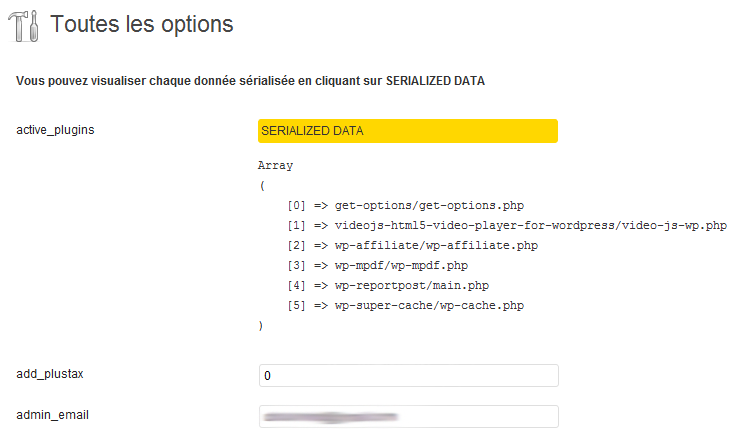
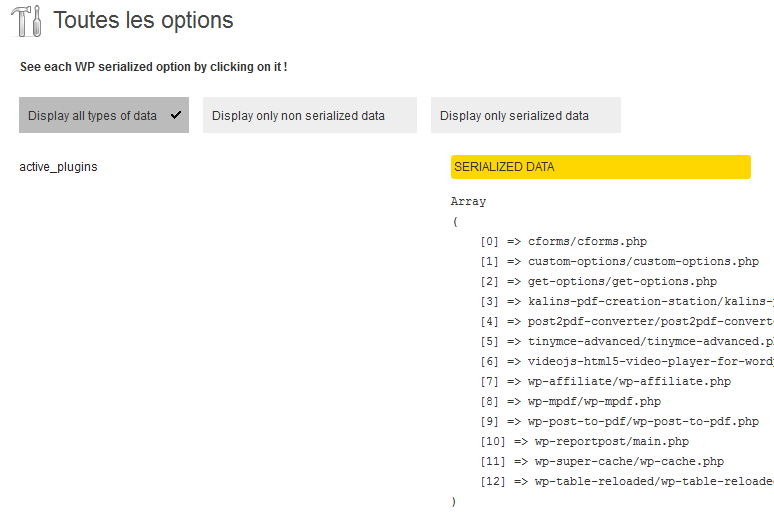
now you can choose the type of data to display
git-svn-id: https://plugins.svn.wordpress.org/get-options/trunk@545564 b8457f37-d9ea-0310-8a92-e5e31aec5664

diff --git a/inc/page-content.php b/inc/page-content.php
@@ -2,93 +2,158 @@
 <div class="wrap">
 <?php screen_icon(); ?>
 <h2><?php esc_html_e('All Settings'); ?></h2>
-<form name="form" action="options.php" method="post" id="all-options">
-<?php wp_nonce_field('options-options') ?>
-<input type="hidden" name="action" value="update" />
-<input type='hidden' name='option_page' value='options' />
 
-<div style="margin-top:20px;margin-bottom:12px; padding:10px;font-weight:bold;" class="info">
+
+<div style="margin-top:10px;padding:10px;font-weight:bold;" class="info">
 	<?php _e("See each WP serialized option by clicking on it !", 'get-options'); ?>
 </div>
 
+<form name="switch_display" id="switch_display" action="">
+	<div class="div_radio selected" id="div_radio_tout">
+		<label for="d0"><?php _e("Display all types of data", 'get-options'); ?></label>
+	</div>
+	<div class="div_radio" id="div_radio_not_serialized">
+		<label for="d1"><?php _e("Display only non serialized data", 'get-options'); ?></label>
+	</div>
+	<div class="div_radio" id="div_radio_serialized">
+		<label for="d2"><?php _e("Display only serialized data", 'get-options'); ?></label>
+	</div>
+</form>
 
-<table class="form-table">
 
-	<?php
-	global $wpdb;
-	$options = $wpdb->get_results( "SELECT * FROM $wpdb->options ORDER BY option_name" );
-	foreach ( (array) $options as $option ) :
-		$disabled = false;
-		$data_serialize = false;
-		if ( $option->option_name == '' )
-			continue;
-		if ( is_serialized( $option->option_value ) ) {
-			if ( is_serialized_string( $option->option_value ) ) {
-				// this is a serialized string, so we should display it
-				$value = maybe_unserialize( $option->option_value );
+	<script type="text/javascript">
+		jQuery(document).ready(function(){
+			jQuery('.show_data_serialized').click(function(){
+				jQuery(this).siblings('pre').slideToggle();
+			});
+			
+			jQuery('.div_radio').click(function(){
+				jQuery('.div_radio').removeClass('selected');
+				jQuery(this).addClass('selected');
+				
+				if (jQuery(this).attr('id') == 'div_radio_tout') {
+					// console.log(jQuery(this).attr('id'));
+					jQuery('.td_not_serialized').show();
+					jQuery('.td_serialized').show();
+				}
+				else if (jQuery(this).attr('id') == 'div_radio_not_serialized') {
+					// console.log(jQuery(this).attr('id'));
+					jQuery('.td_not_serialized').show();
+					jQuery('.td_serialized').hide();					
+				}
+				else if (jQuery(this).attr('id') == 'div_radio_serialized') {
+					// console.log(jQuery(this).attr('id'));
+					jQuery('.td_not_serialized').hide();
+					jQuery('.td_serialized').show();
+				} 
+			});
+		});
+	</script>
+	<style type="text/css">
+		.show_data_serialized {
+			cursor:pointer;
+			background:gold;
+			padding:2px 0;
+			width: 25em;
+			display:inline-block;
+			border-color: #DFDFDF;
+			-webkit-border-radius: 3px;
+			-moz-border-radius: 3px;
+			border-radius: 3px;
+		}
+		
+		/*=======================
+		 form de choix de données à voir
+		=======================*/
+		form#switch_display {
+			padding:12px 10px;
+			height:32px;
+		}
+		form#switch_display input {
+			margin:0 10px 0 3px;
+		}
+		form#switch_display .div_radio {
+			float:left;
+			margin-right:14px;
+			padding:9px 32px 9px 9px;
+			background-color:#eee;
+		}
+			form#switch_display .div_radio.selected {
+				background:url(<?php echo plugins_url('get-options/img/check.png'); ?>) no-repeat right;
+				background-color:#bbb;
+			}
+	</style>
+	
+<form name="form" action="options.php" method="post" id="all-options">
+	<?php wp_nonce_field('options-options') ?>
+	<input type="hidden" name="action" value="update" />
+	<input type='hidden' name='option_page' value='options' />
+
+
+	<table class="form-table">
+
+		<?php
+		global $wpdb;
+		$options = $wpdb->get_results( "SELECT * FROM $wpdb->options ORDER BY option_name" );
+		foreach ( (array) $options as $option ) :
+			$disabled = false;
+			$data_serialize = false;
+			if ( $option->option_name == '' )
+				continue;
+			if ( is_serialized( $option->option_value ) ) {
+				if ( is_serialized_string( $option->option_value ) ) {
+					// this is a serialized string, so we should display it
+					$value = maybe_unserialize( $option->option_value );
+					$options_to_update[] = $option->option_name;
+					$class = 'all-options';
+				} else {
+					$value = '&nbsp;SERIALIZED DATA'; // $value = $option->option_value;
+					$my_value = unserialize($option->option_value); // pre($value);
+					$disabled = true;
+					$data_serialize = true;
+					$class = 'all-options disabled';
+				}
+			}
+			else {
+				$value = $option->option_value;
 				$options_to_update[] = $option->option_name;
 				$class = 'all-options';
-			} else {
-				$value = '&nbsp;SERIALIZED DATA'; // $value = $option->option_value;
-				$my_value = unserialize($option->option_value); // pre($value);
-				$disabled = true;
-				$data_serialize = true;
-				$class = 'all-options disabled';
 			}
-		}
-		else {
-			$value = $option->option_value;
-			$options_to_update[] = $option->option_name;
-			$class = 'all-options';
-		}
-		$name = esc_attr( $option->option_name );
-		echo "
-	<tr>
-		<th scope='row'><label for='$name'>" . esc_html( $option->option_name ) . "</label></th>
-	<td>";
-		
-		if ($data_serialize == true) {
-			echo "<span class='regular-text $class show_data_serialized' id='$name' title='".__('Click to view this data !', 'get-options')."'>".$value."</span>";
-			echo '<pre name="'.$name.'" id="'.$name.'" style="display:none;">';
-			print_r($my_value);
-			echo '</pre>';
-		}
-		elseif ( strpos( $value, "\n" ) !== false )
-			echo "<textarea class='$class' name='$name' id='$name' cols='30' rows='5'>" . esc_textarea( $value ) . "</textarea>";
-		else
-			echo "<input class='regular-text $class' type='text' name='$name' id='$name' value='".esc_attr($value)."'".disabled($disabled, true, false)." />";
-		echo "</td>
-	</tr>";
-	endforeach;
-	?>
-</table>
+			$name = esc_attr( $option->option_name );
+			
+			
+			if ($data_serialize == true) {
+				echo '<tr class="td_serialized">';
+			}
+			else {
+				echo '<tr class="td_not_serialized">';
+			}
+				echo "<th scope='row'><label for='$name'>" . esc_html( $option->option_name ) . "</label></th>";
+				echo '<td>';
+					if ($data_serialize == true) {						
+						echo "<span class='regular-text $class show_data_serialized' id='$name' title='".__('Click to view this data !', 'get-options')."'>".$value."</span>";
+						echo '<pre name="'.$name.'" id="'.$name.'" style="display:none;">';
+						print_r($my_value);
+						echo '</pre>';
+					}
+					elseif ( strpos( $value, "\n" ) !== false ) {
+						echo "<textarea class='$class' name='$name' id='$name' cols='30' rows='5'>" . esc_textarea( $value ) . "</textarea>";
+					}
+					else {
+						echo "<input class='regular-text $class' type='text' name='$name' id='$name' value='".esc_attr($value)."'".disabled($disabled, true, false)." />";
+					}			
+				echo "</td>";
+			echo "</tr>";
+			
+		endforeach;
+		?>
+	</table>
 
-<script type="text/javascript">
-	jQuery(document).ready(function(){
-		jQuery('.show_data_serialized').click(function(){
-			// alert('DONNEE SERIALISEE');
-			jQuery(this).siblings('pre').slideToggle();
-		});
-	});
-</script>
-<style type="text/css">
-	.show_data_serialized {
-		cursor:pointer;
-		background:gold;
-		padding:2px 0;
-		width: 25em;
-		display:inline-block;
-		border-color: #DFDFDF;
-		-webkit-border-radius: 3px;
-		-moz-border-radius: 3px;
-		border-radius: 3px;
-	}
-</style>
 
-<input type="hidden" name="page_options" value="<?php echo esc_attr( implode( ',', $options_to_update ) ); ?>" />
+	<input type="hidden" name="page_options" value="<?php echo esc_attr( implode( ',', $options_to_update ) ); ?>" />
 
-<?php submit_button( __( 'Save Changes' ), 'primary', 'Update' ); ?>
+	<?php submit_button( __( 'Save Changes' ), 'primary', 'Update' ); ?>
 
-  </form>
+</form>
 </div>
 

diff --git a/get-options.php b/get-options.php
@@ -1,9 +1,9 @@
 <?php
 /*
 Plugin Name: Get Options
-Plugin URI: http://adresseContenantLesInfosSurVotrePlugin
+Plugin URI: http://wordpress.org/extend/plugins/get-options/
 Description: View all the WordPress Options, even the serialized ones !
-Version: 1.1.6
+Version: 1.1.7
 Author: Gilles Dumas
 Author URI: http://gillesdumas.com
 */
